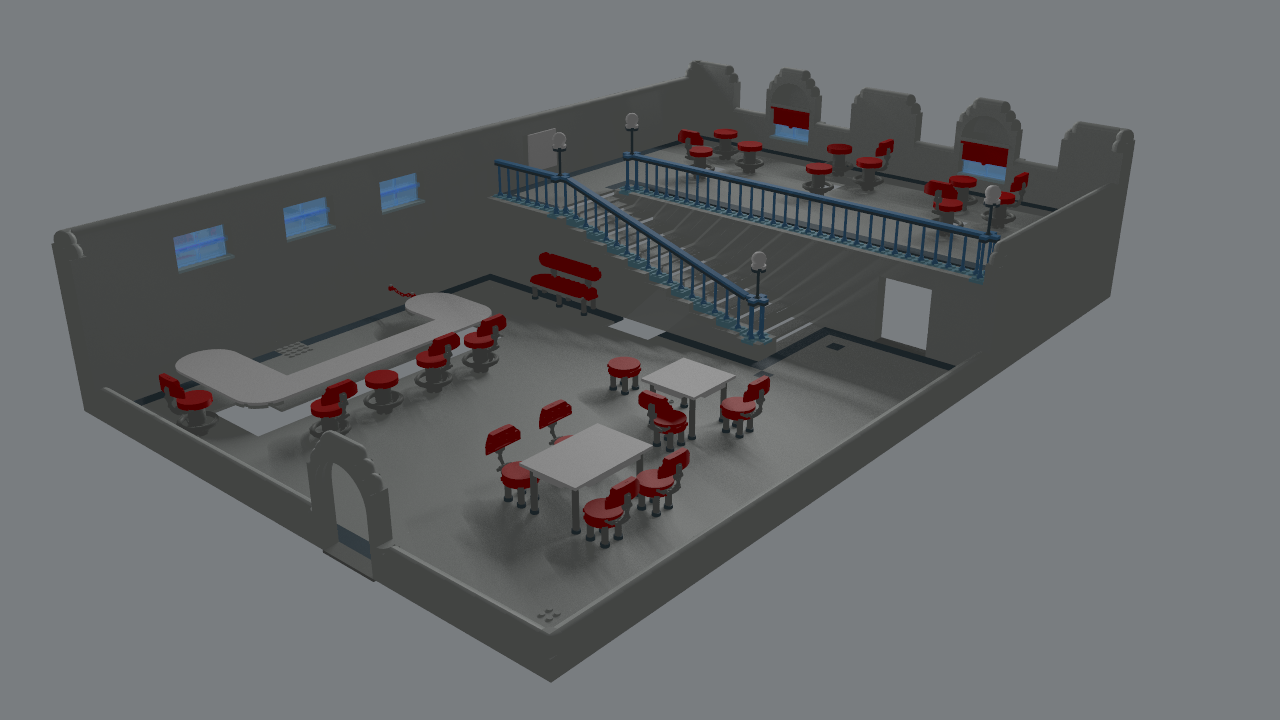
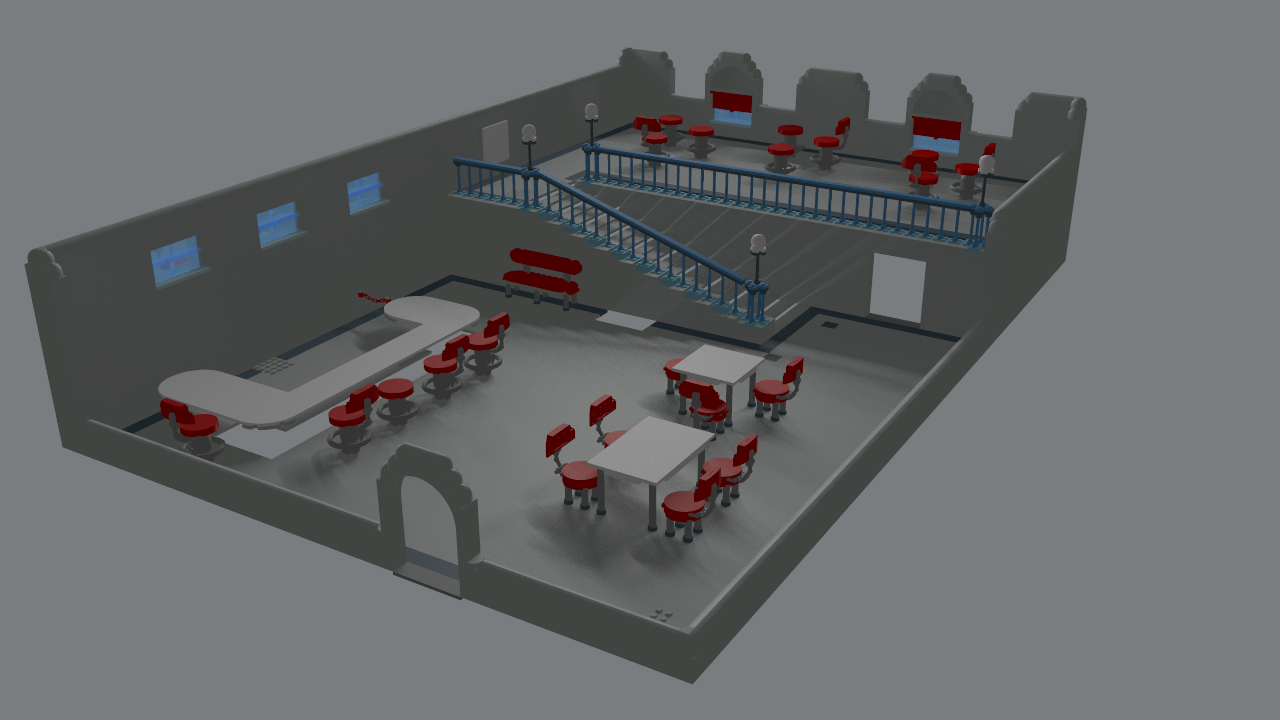
I think this is a good solution to the puzzle of building the stairs handrails

Changed region(s): [[0.0, 0.0611, 0.9062, 0.9472], [0.1875, 0.7028, 0.2188, 0.7333], [0.0938, 0.275, 0.125, 0.3056]]

diff --git a/README.md b/README.md
@@ -6,3 +6,6 @@ You're not required to do so, but I would appreciate to get photos of the model 
 
 ![LBA2: Chez Luc scene - preview](preview.png)
 ![LBA2: Chez Luc scene - povray render](chezluc/lba2-chez-luc.png)
+
+As a reference, this is what the scene looks like in the game:
+![Original scene from the game](chezluc/Lba2-citadel_island-lupin_bourg_chez_luc.jpg)
